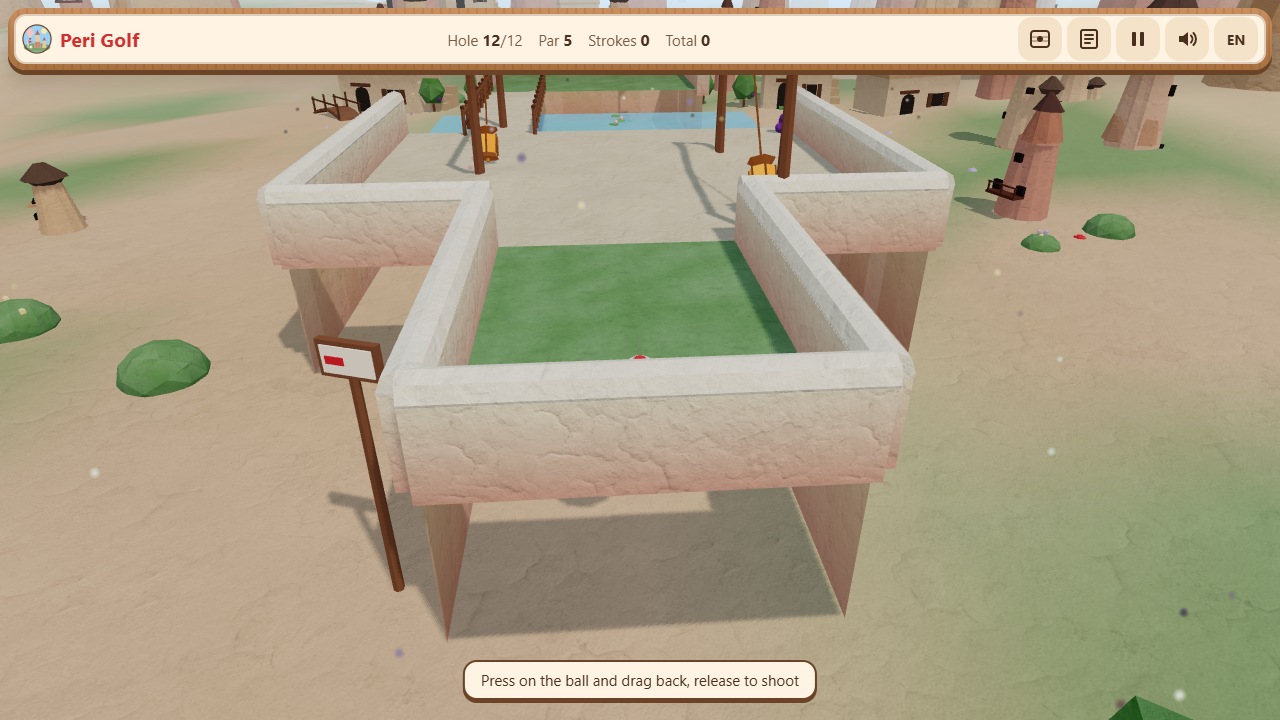
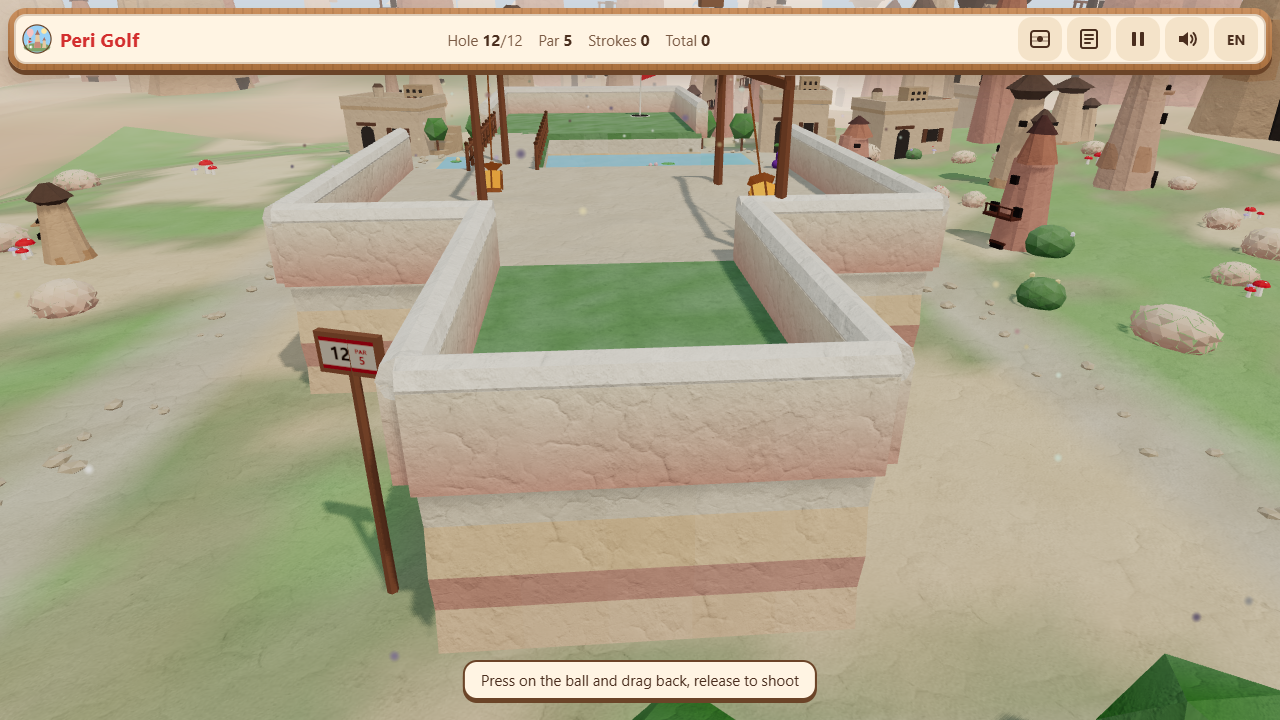
feat(redesign): diorama base, strata terrace, hero chimneys, numbered signpost
Fine 32 m ground base per hole with moss/grass patches, a pebble path and
instanced boulders, toadstool clusters and pebbles; the terrace sides are
layered tuff strata with a mossy lip and a contact shadow (faces now wind
outward); hero chimneys past the cup, warmer closer fog and a flatter tee
camera; the tee signpost carries the hole number and par on a canvas board.
The coarse terrain skips its centre so the ground is not drawn twice.

Claude-Session: https://claude.ai/code/session_014vMYwwQ3htV8WjCni8q7av

diff --git a/index.html b/index.html
@@ -800,18 +800,32 @@ function padTop(course, p, rnd) {
   return g.toNonIndexed();
 }
 // skirt from the pad edge down to the course base (the carved tuff terrace side)
+// Redesign: the terrace side is layered tuff strata (each band bulges out a little), a mossy lip on top and a dark
+// contact-shadow apron where the terrace meets the diorama ground. Faces wind outward so the near side is lit, not culled.
+const SKIRT_BANDS = [[0, 0x6F9460, 0.0], [0.07, 0xF6E8CE, 0.05], [0.24, 0xE8C9A0, 0.0], [0.42, 0xDDA894, 0.07], [0.58, 0xE4C4A0, 0.02], [0.76, 0xC98B7A, 0.09], [1, 0xB0776A, 0.04]];
 function padSkirt(course, p, rnd) {
-  const pos = [], col = [], base = course.base; const corners = [[-1, -1], [1, -1], [1, 1], [-1, 1]];
+  const pos = [], col = [], base = course.base, corners = [[-1, -1], [1, -1], [1, 1], [-1, 1]], gy = terrainY(p.x, p.z) + 0.015;
+  const dark = new THREE.Color(0x8E7458), ground = new THREE.Color(COL.tuff);
+  const V = (x, y, z, c, j) => { pos.push(x, y, z); col.push(c.r + j, c.g + j, c.b + j); };
   for (let k = 0; k < 4; k++) {
     const a = corners[k], b = corners[(k + 1) % 4];
     const ax = p.x + a[0] * p.w / 2, az = p.z + a[1] * p.d / 2, bx = p.x + b[0] * p.w / 2, bz = p.z + b[1] * p.d / 2;
-    const n = Math.max(1, Math.round(Math.hypot(bx - ax, bz - az) / 0.5));
+    const ex = bx - ax, ez = bz - az, L = Math.hypot(ex, ez), ox = ez / L, oz = -ex / L; // (ox, oz) points away from the pad
+    const n = Math.max(1, Math.round(L / 0.5));
     for (let i = 0; i < n; i++) {
-      const x0 = ax + (bx - ax) * i / n, z0 = az + (bz - az) * i / n, x1 = ax + (bx - ax) * (i + 1) / n, z1 = az + (bz - az) * (i + 1) / n;
-      const y0 = padH(p, x0, z0) + course.bumpH(x0, z0), y1 = padH(p, x1, z1) + course.bumpH(x1, z1);
-      pos.push(x0, y0, z0, x0, base, z0, x1, y1, z1, x1, y1, z1, x0, base, z0, x1, base, z1);
-      _c.set(COL.tuff); _c2.set(COL.rose); const j = (rnd() - 0.5) * 0.08; // tuff top, rose rock at the foot of the terrace
-      for (let q = 0; q < 6; q++) { const k = (q === 1 || q === 4 || q === 5) ? 1 : 0; col.push(_c.r + (_c2.r - _c.r) * k + j, _c.g + (_c2.g - _c.g) * k + j, _c.b + (_c2.b - _c.b) * k + j); }
+      const x0 = ax + ex * i / n, z0 = az + ez * i / n, x1 = ax + ex * (i + 1) / n, z1 = az + ez * (i + 1) / n;
+      const t0 = padH(p, x0, z0) + course.bumpH(x0, z0), t1 = padH(p, x1, z1) + course.bumpH(x1, z1);
+      for (let r = 0; r < SKIRT_BANDS.length - 1; r++) {
+        const [f0, cBand, b0] = SKIRT_BANDS[r], b1 = SKIRT_BANDS[r + 1][2], f1 = SKIRT_BANDS[r + 1][0], j = (rnd() - 0.5) * 0.07;
+        _c.set(cBand);
+        const A0 = [x0 + ox * b0, t0 - (t0 - base) * f0, z0 + oz * b0], A1 = [x1 + ox * b0, t1 - (t1 - base) * f0, z1 + oz * b0];
+        const B0 = [x0 + ox * b1, t0 - (t0 - base) * f1, z0 + oz * b1], B1 = [x1 + ox * b1, t1 - (t1 - base) * f1, z1 + oz * b1];
+        for (const v of [A0, A1, B0, A1, B1, B0]) V(v[0], v[1], v[2], _c, j);
+      }
+      // contact shadow: dark at the foot, fading to the ground colour 0.7 m out
+      const fb = SKIRT_BANDS[SKIRT_BANDS.length - 1][2], I0 = [x0 + ox * fb, gy, z0 + oz * fb], I1 = [x1 + ox * fb, gy, z1 + oz * fb];
+      const O0 = [x0 + ox * 0.7, gy, z0 + oz * 0.7], O1 = [x1 + ox * 0.7, gy, z1 + oz * 0.7];
+      V(...I0, dark, 0); V(...I1, dark, 0); V(...O0, ground, 0); V(...I1, dark, 0); V(...O1, ground, 0); V(...O0, ground, 0);
     }
   }
   const g = new THREE.BufferGeometry(); g.setAttribute('position', new THREE.Float32BufferAttribute(pos, 3)); g.setAttribute('color', new THREE.Float32BufferAttribute(col, 3));
@@ -898,12 +912,13 @@ function buildCourseGeometry(course) {
   // tee marker and a little wooden signpost beside the tee terrace
   const th = course.height(def.tee[0], def.tee[1]) || 0;
   flat.push(cyl(0.26, 0.26, 0.012, 12, def.tee[0], th + 0.004, def.tee[1], 0x98c26c));
+  let sign = null;
   { const tp = course.ground(def.tee[0], def.tee[1]); if (tp) {
-    // the board faces the tee camera (+z) and turns a little towards the course; cream face on both sides with a red flag stripe
-    const sx = tp.pad.x - tp.pad.w / 2 - 0.4, sz = def.tee[1] + 0.3, y0 = course.base + 0.2, y1 = th + 0.56, ry = -0.35, nx = Math.sin(ry), nz = Math.cos(ry);
+    // the board faces the tee camera (+z) and turns a little towards the course; its painted face (hole number) is a separate textured mesh
+    const sx = tp.pad.x - tp.pad.w / 2 - 0.4, sz = def.tee[1] + 0.3, y0 = terrainY(sx, sz) - 0.1, y1 = th + 0.56, ry = -0.35;
     flat.push(cyl(0.03, 0.04, y1 - y0, 6, sx, (y0 + y1) / 2, sz, COL.wood));
-    flat.push(box(0.4, 0.24, 0.05, sx, y1 - 0.1, sz, COL.wood, ry));
-    for (const s of [1, -1]) { flat.push(box(0.34, 0.18, 0.012, sx + nx * 0.03 * s, y1 - 0.1, sz + nz * 0.03 * s, COL.cream, ry)); flat.push(box(0.12, 0.05, 0.012, sx + nx * 0.037 * s - nz * 0.08, y1 - 0.1, sz + nz * 0.037 * s + nx * 0.08, COL.accent, ry)); }
+    flat.push(box(0.42, 0.26, 0.05, sx, y1 - 0.1, sz, COL.wood, ry));
+    sign = { x: sx, y: y1 - 0.1, z: sz, ry };
   } }
   // tunnels / cave houses over the course: rounded rock arches, rose at the foot and tuff above
   for (const tn of (def.tunnels || [])) {
@@ -934,7 +949,7 @@ function buildCourseGeometry(course) {
   // rock (tuff terraces, walls, stone pads), grass and sand are separate meshes so each can carry its own detail texture
   const rock = merged(list), g = merged(grass), s = merged(sand);
   if (rock) boxUV(rock, 2.2); if (g) boxUV(g, 1.1); if (s) { boxUV(s, 1.3); s.translate(0, 0.004, 0); } // sand sits 4 mm proud of the grass it overlaps (visual only)
-  return { rock, grass: g, sand: s, flat: merged(flat), water: water.length ? merged(water) : null };
+  return { rock, grass: g, sand: s, flat: merged(flat), water: water.length ? merged(water) : null, sign };
 }
 
 // Scenery around one hole: fairy chimneys, cave houses, vines, pottery, roosts.
@@ -969,54 +984,56 @@ function houseGeo(x, z, rnd, yBase, ry, pl) {
 function buildScenery(course) {
   const rnd = mulberry(500 + course.index * 13), def = course.def, deco = def.deco || {}, bb = course.bbox, list = [], pl = { chimneys: [], houses: [] };
   const inside = (x, z, m) => x > bb.x0 - m && x < bb.x1 + m && z > bb.z0 - m && z < bb.z1 + m;
-  const groundY = course.base + 0.2;
+  const gY = (x, z) => terrainY(x, z) + 0.01; // props stand on the diorama ground, not on the course base
   let placed = 0, tries = 0;
   while (placed < (deco.chimneys || 10) && tries++ < 400) {
     const x = bb.cx + (rnd() - 0.5) * (bb.x1 - bb.x0 + 20), z = bb.cz + (rnd() - 0.5) * (bb.z1 - bb.z0 + 20);
-    if (inside(x, z, 2.6)) continue;
+    if (inside(x, z, 2.6) || pathDist(course, x, z) < 1.0) continue;
     const far = !inside(x, z, 6);
-    list.push(...chimneyGeo(x, z, far ? 0.9 + rnd() * 0.9 : 0.45 + rnd() * 0.5, rnd, groundY - 0.3, pl)); placed++;
+    list.push(...chimneyGeo(x, z, far ? 0.9 + rnd() * 0.9 : 0.45 + rnd() * 0.5, rnd, gY(x, z) - 0.3, pl)); placed++;
   }
   placed = 0; tries = 0;
   while (placed < (deco.houses || 1) && tries++ < 200) {
     const x = bb.cx + (rnd() - 0.5) * (bb.x1 - bb.x0 + 12), z = bb.cz + (rnd() - 0.5) * (bb.z1 - bb.z0 + 12);
-    if (inside(x, z, 2.2)) continue;
-    list.push(...houseGeo(x, z, rnd, groundY - 0.2, (rnd() - 0.5) * 0.8, pl)); placed++;
+    if (inside(x, z, 2.2) || pathDist(course, x, z) < 1.4) continue;
+    list.push(...houseGeo(x, z, rnd, gY(x, z) - 0.2, (rnd() - 0.5) * 0.8, pl)); placed++;
   }
-  for (const l of (deco.landmarks || [])) list.push(...chimneyGeo(l.x, l.z, l.s, rnd, groundY - 0.3, pl));
+  for (const l of (deco.landmarks || [])) list.push(...chimneyGeo(l.x, l.z, l.s, rnd, gY(l.x, l.z) - 0.3, pl));
+  // hero chimneys at hole scale just past the cup, inside the tee camera's view, so the diorama has a near skyline
+  for (const [x, z, s] of [[def.cup[0] - 3.4, bb.z0 - 3.6, 1.35], [def.cup[0] + 3.0, bb.z0 - 5.4, 1.05], [bb.x1 + 3.4, bb.z0 + 1.6, 0.8]]) {
+    if (!inside(x, z, 2.6)) list.push(...chimneyGeo(x, z, s, rnd, gY(x, z) - 0.3, pl));
+  }
   if (deco.vines) { // rows of vine posts and bushes along the course
     for (const side of [-1, 1]) for (let i = 0; i < 9; i++) {
       const x = bb.x0 - 1.2 + (bb.x1 - bb.x0 + 2.4) * i / 8, z = side < 0 ? bb.z0 - 1.6 - (i % 2) * 0.5 : bb.z1 + 1.6 + (i % 2) * 0.5;
       if (inside(x, z, 0.9)) continue;
-      list.push(cyl(0.03, 0.04, 0.9, 5, x, groundY + 0.45, z, COL.wood));
-      const g = new THREE.IcosahedronGeometry(0.32 + rnd() * 0.15, 0); g.translate(x, groundY + 0.75, z); list.push(colorize(g, COL.vine, 0.1, rnd));
-      if (rnd() < 0.5) list.push(sph(0.07, x + 0.2, groundY + 0.55, z + 0.15, 0x6a3b8c, 5));
+      const g0 = gY(x, z);
+      list.push(cyl(0.03, 0.04, 0.9, 5, x, g0 + 0.45, z, COL.wood));
+      const g = new THREE.IcosahedronGeometry(0.32 + rnd() * 0.15, 0); g.translate(x, g0 + 0.75, z); list.push(colorize(g, COL.vine, 0.1, rnd));
+      if (rnd() < 0.5) list.push(sph(0.07, x + 0.2, g0 + 0.55, z + 0.15, 0x6a3b8c, 5));
     }
   }
-  // diorama props: round bushes with blossoms, toadstools, flower patches and one tiny footbridge over a puddle
+  // diorama props: round bushes with blossoms, flower patches and one tiny footbridge over a puddle
+  // (toadstool clusters, boulders and the pebble path are instanced in buildDioramaProps)
   for (let i = 0, nb = 12 + Math.floor(rnd() * 6); i < nb; i++) {
-    const x = bb.cx + (rnd() - 0.5) * (bb.x1 - bb.x0 + 14), z = bb.cz + (rnd() - 0.5) * (bb.z1 - bb.z0 + 14); if (inside(x, z, 1.5)) continue;
-    const r = 0.22 + rnd() * 0.24; const g = new THREE.IcosahedronGeometry(r, 1); g.scale(1, 0.8, 1); g.translate(x, groundY + r * 0.55, z);
-    list.push(colorizeY(g, 0x4d7d44, COL.moss, groundY, groundY + r * 1.3, 0.08, rnd));
-    if (rnd() < 0.6) for (let k = 0; k < 3; k++) list.push(sph(0.045, x + (rnd() - 0.5) * r * 1.4, groundY + r * 0.9 + rnd() * r * 0.4, z + (rnd() - 0.5) * r * 1.4, [COL.blush, COL.lemon, 0xffffff, COL.lilac][Math.floor(rnd() * 4)], 4));
-  }
-  for (let i = 0, nm = 5 + Math.floor(rnd() * 4); i < nm; i++) {
-    const x = bb.cx + (rnd() - 0.5) * (bb.x1 - bb.x0 + 10), z = bb.cz + (rnd() - 0.5) * (bb.z1 - bb.z0 + 10); if (inside(x, z, 1.2)) continue;
-    const s = 0.7 + rnd() * 0.7; list.push(cyl(0.035 * s, 0.05 * s, 0.18 * s, 6, x, groundY + 0.09 * s, z, COL.cream, 0.04));
-    const cap = new THREE.SphereGeometry(0.11 * s, 8, 5, 0, Math.PI * 2, 0, Math.PI / 2); cap.scale(1, 0.7, 1); cap.translate(x, groundY + 0.17 * s, z); list.push(colorize(cap, rnd() < 0.6 ? COL.accent : COL.lilac, 0.05, rnd));
-    for (let k = 0; k < 3; k++) { const a = rnd() * 6.28, rr = 0.05 * s; list.push(sph(0.022 * s, x + Math.cos(a) * rr, groundY + 0.22 * s, z + Math.sin(a) * rr, 0xffffff, 4)); }
+    const x = bb.cx + (rnd() - 0.5) * (bb.x1 - bb.x0 + 14), z = bb.cz + (rnd() - 0.5) * (bb.z1 - bb.z0 + 14); if (inside(x, z, 1.5) || pathDist(course, x, z) < 0.9) continue;
+    const g0 = gY(x, z), r = 0.22 + rnd() * 0.24; const g = new THREE.IcosahedronGeometry(r, 1); g.scale(1, 0.8, 1); g.translate(x, g0 + r * 0.55, z);
+    list.push(colorizeY(g, 0x4d7d44, COL.moss, g0, g0 + r * 1.3, 0.08, rnd));
+    if (rnd() < 0.6) for (let k = 0; k < 3; k++) list.push(sph(0.045, x + (rnd() - 0.5) * r * 1.4, g0 + r * 0.9 + rnd() * r * 0.4, z + (rnd() - 0.5) * r * 1.4, [COL.blush, COL.lemon, 0xffffff, COL.lilac][Math.floor(rnd() * 4)], 4));
   }
   for (let i = 0; i < 7; i++) {
-    const cx = bb.cx + (rnd() - 0.5) * (bb.x1 - bb.x0 + 12), cz = bb.cz + (rnd() - 0.5) * (bb.z1 - bb.z0 + 12); if (inside(cx, cz, 1.0)) continue;
-    for (let k = 0; k < 6; k++) { const x = cx + (rnd() - 0.5) * 0.9, z = cz + (rnd() - 0.5) * 0.9; list.push(cyl(0.008, 0.01, 0.12, 4, x, groundY + 0.06, z, COL.vine), sph(0.038, x, groundY + 0.13, z, [COL.blush, COL.lemon, COL.lilac, 0xffffff, COL.accent][Math.floor(rnd() * 5)], 4)); }
+    const cx = bb.cx + (rnd() - 0.5) * (bb.x1 - bb.x0 + 12), cz = bb.cz + (rnd() - 0.5) * (bb.z1 - bb.z0 + 12); if (inside(cx, cz, 1.0) || pathDist(course, cx, cz) < 0.9) continue;
+    const g0 = gY(cx, cz);
+    for (let k = 0; k < 6; k++) { const x = cx + (rnd() - 0.5) * 0.9, z = cz + (rnd() - 0.5) * 0.9; list.push(cyl(0.008, 0.01, 0.12, 4, x, g0 + 0.06, z, COL.vine), sph(0.038, x, g0 + 0.13, z, [COL.blush, COL.lemon, COL.lilac, 0xffffff, COL.accent][Math.floor(rnd() * 5)], 4)); }
   }
-  { let tries = 0; while (tries++ < 40) { const x = bb.cx + (rnd() - 0.5) * (bb.x1 - bb.x0 + 11), z = bb.cz + (rnd() - 0.5) * (bb.z1 - bb.z0 + 11); if (inside(x, z, 2.4) || !inside(x, z, 6)) continue; list.push(...bridgeGeo(x, groundY, z, rnd() * Math.PI, rnd)); break; } }
+  { let tries = 0; while (tries++ < 40) { const x = bb.cx + (rnd() - 0.5) * (bb.x1 - bb.x0 + 11), z = bb.cz + (rnd() - 0.5) * (bb.z1 - bb.z0 + 11); if (inside(x, z, 2.4) || !inside(x, z, 6) || pathDist(course, x, z) < 1.4) continue; list.push(...bridgeGeo(x, gY(x, z), z, rnd() * Math.PI, rnd)); break; } }
   if (deco.pots) { // shelves with pottery around the workshop
+    const g0 = gY(bb.x1 + 1.3, bb.z0 + 2.8);
     for (let i = 0; i < 6; i++) {
       const x = bb.x1 + 1.0 + (i % 2) * 0.6, z = bb.z0 + 1 + i * 0.7;
-      list.push(sph(0.16, x, groundY + 0.18, z, [0xd07a5c, COL.blush, COL.rose][i % 3], 7), cyl(0.07, 0.09, 0.14, 7, x, groundY + 0.38, z, 0xd07a5c));
+      list.push(sph(0.16, x, g0 + 0.18, z, [0xd07a5c, COL.blush, COL.rose][i % 3], 7), cyl(0.07, 0.09, 0.14, 7, x, g0 + 0.38, z, 0xd07a5c));
     }
-    list.push(box(1.6, 0.1, 4.6, bb.x1 + 1.3, groundY + 0.02, bb.z0 + 2.8, COL.wood));
+    list.push(box(1.6, 0.1, 4.6, bb.x1 + 1.3, g0 + 0.02, bb.z0 + 2.8, COL.wood));
   }
   if (def.pigeons) { // pigeon loft: a carved cliff with holes
     const [x, z] = def.pigeons; const gh = course.height(x, z) ?? (course.base + 0.2);
@@ -1043,6 +1060,102 @@ function buildGrape() {
   const leaf = new THREE.BoxGeometry(0.22, 0.02, 0.16); leaf.translate(0.06, 0.3, 0); list.push(colorize(leaf, COL.vine));
   return merged(list);
 }
+// Diorama ground around the course (redesign): a fine 32x32 m base on the flat basin with moss and grass patches,
+// a pebble path that rings the course and runs back to the tee camera, plus instanced boulders, toadstool clusters and pebbles.
+const BASIN_Y = -1.35;
+function terrainY(x, z) { // analytic terrain height (no jitter): the basin is flat, hills start 11 m out
+  const d = Math.hypot(x, z), hill = Math.sin(x * 0.11) * Math.cos(z * 0.09) * 1.6 + Math.sin(x * 0.31 + 1) * Math.sin(z * 0.27) * 0.6;
+  return BASIN_Y + hill * THREE.MathUtils.smoothstep(d, 11, 24) + (d > 55 ? (d - 55) * 0.05 : 0);
+}
+function vnoise(x, z, seed) { // smooth value noise in [0,1]
+  const xi = Math.floor(x), zi = Math.floor(z), fx = x - xi, fz = z - zi, sx = fx * fx * (3 - 2 * fx), sz = fz * fz * (3 - 2 * fz);
+  const h = (i, j) => { const s = Math.sin(i * 127.1 + j * 311.7 + seed * 0.37) * 43758.5453; return s - Math.floor(s); };
+  return (h(xi, zi) * (1 - sx) + h(xi + 1, zi) * sx) * (1 - sz) + (h(xi, zi + 1) * (1 - sx) + h(xi + 1, zi + 1) * sx) * sz;
+}
+// distance to the pebble path: a rounded ring 1.7 m outside the course plus a spur towards the tee camera
+function pathDist(course, x, z) {
+  const bb = course.bbox, m = 1.7, r = 1.3, hx = (bb.x1 - bb.x0) / 2 + m - r, hz = (bb.z1 - bb.z0) / 2 + m - r;
+  const qx = Math.abs(x - bb.cx) - hx, qz = Math.abs(z - bb.cz) - hz;
+  const ring = Math.hypot(Math.max(qx, 0), Math.max(qz, 0)) + Math.min(Math.max(qx, qz), 0) - r;
+  const sx = course.def.tee[0] + 2.1, z0 = bb.z1 + m, spur = Math.hypot(x - sx, z - clamp(z, z0, z0 + 7));
+  return Math.min(Math.abs(ring), spur);
+}
+function buildBaseGround(course) {
+  const seed = 7 + course.index * 3, size = 32, n = 64, pos = [], col = [], idx = [];
+  const tuff = new THREE.Color(COL.tuff), sand = new THREE.Color(0xF0DDB2), moss = new THREE.Color(COL.moss), grass = new THREE.Color(0x9DBE78), dark = new THREE.Color(0x628C55), stone = new THREE.Color(0xD9CBB0), tmp = new THREE.Color();
+  const rnd = mulberry(seed);
+  for (let j = 0; j <= n; j++) for (let i = 0; i <= n; i++) {
+    const x = -size / 2 + size * i / n, z = -size / 2 + size * j / n;
+    pos.push(x, terrainY(x, z) + 0.05, z);
+    const f = vnoise(x * 0.33, z * 0.33, seed) * 0.6 + vnoise(x * 0.9 + 7, z * 0.9, seed) * 0.3 + vnoise(x * 2.3, z * 2.3 + 3, seed) * 0.1;
+    tmp.lerpColors(tuff, sand, vnoise(x * 0.12, z * 0.12 + 50, seed));
+    const mossK = THREE.MathUtils.smoothstep(f, 0.46, 0.64), edge = THREE.MathUtils.smoothstep(f, 0.40, 0.50) * (1 - mossK); // dark moss rim round each patch
+    tmp.lerp(f > 0.58 ? grass : moss, mossK).lerp(dark, edge * 0.55);
+    const pd = pathDist(course, x, z), pathK = 1 - THREE.MathUtils.smoothstep(pd, 0.4, 0.85);
+    tmp.lerp(stone, pathK * 0.9);
+    const jit = (rnd() - 0.5) * (pathK > 0.5 ? 0.09 : 0.04);
+    col.push(tmp.r + jit, tmp.g + jit, tmp.b + jit);
+  }
+  for (let j = 0; j < n; j++) for (let i = 0; i < n; i++) { const a = j * (n + 1) + i, b = a + 1, c = a + n + 1, d = c + 1; idx.push(a, c, b, b, c, d); }
+  const g = new THREE.BufferGeometry(); g.setAttribute('position', new THREE.Float32BufferAttribute(pos, 3)); g.setAttribute('color', new THREE.Float32BufferAttribute(col, 3)); g.setIndex(idx); g.computeVertexNormals();
+  return boxUV(g.toNonIndexed(), 4.5);
+}
+// shared instanced prop geometries: a toadstool cluster, a tuff boulder and a pebble
+let PROP_GEO = null;
+function propGeos() { // built on first use (colorizeY needs helpers declared later in the module)
+  if (PROP_GEO) return PROP_GEO;
+  const rnd = mulberry(77), stool = [];
+  for (const [dx, dz, s, c] of [[0, 0, 1, COL.accent], [0.19, 0.08, 0.66, COL.accent], [-0.14, 0.15, 0.5, COL.lilac]]) {
+    stool.push(cyl(0.035 * s, 0.05 * s, 0.18 * s, 6, dx, 0.09 * s, dz, COL.cream, 0.04));
+    const cap = new THREE.SphereGeometry(0.12 * s, 8, 5, 0, Math.PI * 2, 0, Math.PI / 2); cap.scale(1, 0.7, 1); cap.translate(dx, 0.17 * s, dz); stool.push(colorize(cap, c, 0.05, rnd));
+    for (let k = 0; k < 3; k++) { const a = rnd() * 6.28, rr = 0.055 * s; stool.push(sph(0.024 * s, dx + Math.cos(a) * rr, 0.23 * s, dz + Math.sin(a) * rr, 0xffffff, 4)); }
+  }
+  const boulder = new THREE.IcosahedronGeometry(0.5, 2); { const p = boulder.attributes.position; for (let i = 0; i < p.count; i++) p.setXYZ(i, p.getX(i) * (0.9 + rnd() * 0.25), p.getY(i) * 0.75, p.getZ(i) * (0.9 + rnd() * 0.25)); }
+  boulder.computeVertexNormals(); colorizeY(boulder, COL.rose, 0xEFD7B8, -0.4, 0.35, 0.06, rnd);
+  const pebble = new THREE.IcosahedronGeometry(0.06, 0); pebble.scale(1.3, 0.55, 1); colorize(pebble, 0xC9B79A, 0.12, rnd);
+  const out = { stool: merged(stool), boulder, pebble };
+  for (const g of Object.values(out)) g.userData.shared = true;
+  return (PROP_GEO = out);
+}
+function buildDioramaProps(course) {
+  const rnd = mulberry(900 + course.index * 7), bb = course.bbox, meshes = [], PG = propGeos();
+  const inside = (x, z, m) => x > bb.x0 - m && x < bb.x1 + m && z > bb.z0 - m && z < bb.z1 + m;
+  const sample = (n, keep, place) => { // rejection-sample positions on the 32 m base, then fill an InstancedMesh
+    const pts = []; let tries = 0;
+    while (pts.length < n && tries++ < n * 60) { const x = (rnd() - 0.5) * 30, z = (rnd() - 0.5) * 30; if (keep(x, z, pathDist(course, x, z))) pts.push([x, z]); }
+    return pts;
+  };
+  const fill = (geo, pts, place, shadow) => {
+    const m = mesh(geo, 'flat', THREE.InstancedMesh, pts.length); m.castShadow = shadow;
+    pts.forEach((p, i) => { place(p[0], p[1]); m.setMatrixAt(i, _m.compose(_p, _q, _s)); });
+    m.instanceMatrix.needsUpdate = true; meshes.push(m);
+  };
+  fill(PG.pebble, sample(170, (x, z, pd) => pd < 0.42 && !inside(x, z, 0.9)), (x, z) => {
+    const s = 0.55 + rnd() * 1.1; _p.set(x, terrainY(x, z) + 0.05 + 0.02 * s, z); _q.setFromEuler(_e.set(0, rnd() * 6.28, 0)); _s.set(s, s, s);
+  }, false);
+  fill(PG.boulder, sample(26, (x, z, pd) => pd > 0.9 && !inside(x, z, 1.4) && Math.hypot(x, z) < 15), (x, z) => {
+    const s = 0.28 + rnd() * 0.55; _p.set(x, terrainY(x, z) + 0.05 + s * 0.2, z); _q.setFromEuler(_e.set(0, rnd() * 6.28, 0)); _s.set(s * (0.8 + rnd() * 0.5), s, s * (0.8 + rnd() * 0.5));
+  }, true);
+  fill(PG.stool, sample(20, (x, z, pd) => pd > 0.8 && !inside(x, z, 1.1) && Math.hypot(x, z) < 14), (x, z) => {
+    const s = 0.8 + rnd() * 0.6; _p.set(x, terrainY(x, z) + 0.055, z); _q.setFromEuler(_e.set(0, rnd() * 6.28, 0)); _s.set(s, s, s);
+  }, true);
+  return meshes;
+}
+// painted face of the tee signpost: hole number and par on a cream board
+function signTexture(n, par) {
+  const cv = document.createElement('canvas'); cv.width = 256; cv.height = 144; const x = cv.getContext('2d');
+  x.fillStyle = '#FFF4E3'; x.fillRect(0, 0, 256, 144); x.fillStyle = '#E53935'; x.fillRect(0, 0, 256, 18); x.fillRect(0, 126, 256, 18);
+  x.fillStyle = '#4A2E1E'; x.textAlign = 'center'; x.textBaseline = 'middle';
+  x.font = '700 84px Fredoka, "Segoe UI", system-ui, sans-serif'; x.fillText(String(n), 92, 72);
+  x.fillStyle = '#E53935'; x.font = '700 28px Fredoka, "Segoe UI", system-ui, sans-serif'; x.fillText('PAR', 192, 50);
+  x.font = '700 50px Fredoka, "Segoe UI", system-ui, sans-serif'; x.fillText(String(par), 192, 92);
+  const tx = new THREE.CanvasTexture(cv); tx.colorSpace = THREE.SRGBColorSpace; tx.anisotropy = 4; return tx;
+}
+function buildSign(s, hole, par) {
+  const faces = [];
+  for (const side of [0, Math.PI]) { const g = new THREE.PlaneGeometry(0.36, 0.2); g.rotateY(s.ry + side); const nx = Math.sin(s.ry + side), nz = Math.cos(s.ry + side); g.translate(s.x + nx * 0.028, s.y, s.z + nz * 0.028); faces.push(g); }
+  const m = new THREE.Mesh(mergeGeometries(faces, false), new THREE.MeshLambertMaterial({ map: signTexture(hole, par) })); m.castShadow = true; return m;
+}
 // big low terrain with a basin where the course sits, plus far chimneys
 function buildTerrain() {
   const rnd = mulberry(99), size = 160, n = 64, pos = [], col = [], idx = [];
@@ -1050,9 +1163,7 @@ function buildTerrain() {
   for (let j = 0; j <= n; j++) for (let i = 0; i <= n; i++) {
     const x = -size / 2 + size * i / n, z = -size / 2 + size * j / n, d = Math.hypot(x, z);
     const v = Math.sin(x * 0.07 + 1.3) * Math.cos(z * 0.05 - 0.4) * 0.5 + Math.sin(x * 0.19 - z * 0.13) * 0.5; // large-scale patches
-    const hill = Math.sin(x * 0.11) * Math.cos(z * 0.09) * 1.6 + Math.sin(x * 0.31 + 1) * Math.sin(z * 0.27) * 0.6 + (rnd() - 0.5) * 0.3;
-    const k = THREE.MathUtils.smoothstep(d, 11, 24);
-    const y = -1.35 + hill * k + (d > 55 ? (d - 55) * 0.05 : 0);
+    const y = terrainY(x, z) + (rnd() - 0.5) * 0.3 * THREE.MathUtils.smoothstep(d, 24, 30); // jitter only beyond the fine diorama base
     pos.push(x, y, z);
     // moss meadows (a finer noise so patches also reach the flat basin round the course), rose rock in the hollows and on the hill tops
     const v2 = Math.sin(x * 0.43 + z * 0.21 + 0.8) * Math.cos(z * 0.37 - x * 0.12) + v * 0.6;
@@ -1060,7 +1171,11 @@ function buildTerrain() {
     tmp.copy(tuff).lerp(moss, mossK).lerp(rose, roseK);
     col.push(tmp.r + j2, tmp.g + j2, tmp.b + j2);
   }
-  for (let j = 0; j < n; j++) for (let i = 0; i < n; i++) { const a = j * (n + 1) + i, b = a + 1, c = a + n + 1, d = c + 1; idx.push(a, c, b, b, c, d); }
+  for (let j = 0; j < n; j++) for (let i = 0; i < n; i++) {
+    const cx = -size / 2 + size * (i + 0.5) / n, cz = -size / 2 + size * (j + 0.5) / n;
+    if (Math.abs(cx) < 15 && Math.abs(cz) < 15) continue; // the fine diorama base covers the centre: no double ground there
+    const a = j * (n + 1) + i, b = a + 1, c = a + n + 1, d = c + 1; idx.push(a, c, b, b, c, d);
+  }
   const g = new THREE.BufferGeometry(); g.setAttribute('position', new THREE.Float32BufferAttribute(pos, 3)); g.setAttribute('color', new THREE.Float32BufferAttribute(col, 3)); g.setIndex(idx); g.computeVertexNormals();
   g.setAttribute('uv', new THREE.BufferAttribute(new Float32Array(pos.length / 3 * 2), 2));
   return g.toNonIndexed();
@@ -1068,9 +1183,7 @@ function buildTerrain() {
 function buildFarChimneys() {
   const rnd = mulberry(1234), list = [], pl = { chimneys: [], houses: [] };
   for (let i = 0; i < 140; i++) {
-    const a = rnd() * Math.PI * 2, d = 20 + rnd() * 48, x = Math.cos(a) * d, z = Math.sin(a) * d;
-    const hill = Math.sin(x * 0.11) * Math.cos(z * 0.09) * 1.6 + Math.sin(x * 0.31 + 1) * Math.sin(z * 0.27) * 0.6;
-    const y = -1.35 + hill * THREE.MathUtils.smoothstep(d, 11, 24) + (d > 55 ? (d - 55) * 0.05 : 0);
+    const a = rnd() * Math.PI * 2, d = 20 + rnd() * 48, x = Math.cos(a) * d, z = Math.sin(a) * d, y = terrainY(x, z);
     list.push(...chimneyGeo(x, z, 1.2 + rnd() * 2.2, rnd, y - 0.5, pl));
     if (rnd() < 0.25) list.push(...houseGeo(x + 2, z + 1, rnd, y - 0.3, rnd(), pl));
   }
@@ -1085,7 +1198,7 @@ function buildSky() {
 function tintSky(geo, progress, az = 0, el = 0.2) {
   const pos = geo.attributes.position, col = geo.attributes.color;
   // pastel diorama sky: peach dawn -> clear toy-sky blue; the fog colour sits between horizon and mid so the far field melts into the sky
-  const horizon = new THREE.Color().lerpColors(new THREE.Color(0xffe0c4), new THREE.Color(0xeef7fd), progress);
+  const horizon = new THREE.Color().lerpColors(new THREE.Color(0xffe0c4), new THREE.Color(0xf9e6d2), progress);
   const mid = new THREE.Color().lerpColors(new THREE.Color(0xc4def2), new THREE.Color(0x9ad1f5), progress);
   const zenith = new THREE.Color().lerpColors(new THREE.Color(0x86b9e8), new THREE.Color(0x6aaae6), progress);
   const tmp = new THREE.Color(), sx = Math.sin(az) * Math.cos(el), sy = Math.sin(el), sz = Math.cos(az) * Math.cos(el);
@@ -1095,7 +1208,7 @@ function tintSky(geo, progress, az = 0, el = 0.2) {
     const d = Math.max(0, (pos.getX(i) * sx + pos.getY(i) * sy + pos.getZ(i) * sz) / 90), glow = Math.pow(d, 7) * (0.3 - 0.16 * progress);
     col.setXYZ(i, c.r + glow * 0.4, c.g + glow * 0.26, c.b + glow * 0.08);
   }
-  col.needsUpdate = true; return horizon.lerp(mid, 0.3);
+  col.needsUpdate = true; return horizon.lerp(mid, 0.18); // warm haze: the fog sits close to the peach horizon
 }
 function softSprite() {
   const cv = document.createElement('canvas'); cv.width = cv.height = 64; const x = cv.getContext('2d');
@@ -1497,7 +1610,7 @@ const sky = new THREE.Mesh(buildSky(), new THREE.MeshBasicMaterial({ vertexColor
 const terrain = mesh(boxUV(buildTerrain(), 4.5), 'ground'); terrain.receiveShadow = true; scene.add(terrain);
 const far = buildFarChimneys();
 const farMesh = mesh(far.geo, 'rock'); scene.add(farMesh);
-scene.fog = new THREE.Fog(0xd6e9f7, 16, 66); // tilt-shift depth fog: the course stays crisp, the far field melts into the sky
+scene.fog = new THREE.Fog(0xf3e2d2, 13, 56); // tilt-shift depth fog: the course and hero chimneys stay crisp, the far field melts into the warm haze
 const envOn = () => settings.quality === 'high' && !!ASSETS.env;
 
 let PMAX = 260;
@@ -1750,7 +1863,7 @@ function buildHoleScenery(course) {
   fillInstances();
 }
 function clearHole() {
-  if (holeGroup) { disposeTree(holeGroup); scene.remove(holeGroup); }
+  if (holeGroup) { const s = holeGroup.userData.sign; if (s) { s.material.map.dispose(); s.material.dispose(); } disposeTree(holeGroup); scene.remove(holeGroup); }
   holeGroup = null; sceneryGroup = null; holeScenery = null; obstacleMeshes = []; ghostLine = null; waterMesh = null;
 }
 view.onHole = function () {
@@ -1760,6 +1873,9 @@ view.onHole = function () {
   const geo = buildCourseGeometry(course);
   for (const k of ['rock', 'grass', 'sand', 'flat']) if (geo[k]) { const m = mesh(geo[k], k); m.receiveShadow = true; m.castShadow = true; holeGroup.add(m); }
   if (geo.water) { waterMesh = mesh(geo.water, 'water'); waterMesh.receiveShadow = true; holeGroup.add(waterMesh); }
+  { const base = mesh(buildBaseGround(course), 'ground'); base.receiveShadow = true; holeGroup.add(base); }
+  for (const m of buildDioramaProps(course)) holeGroup.add(m);
+  if (geo.sign) { const s = buildSign(geo.sign, i + 1, def.par); holeGroup.userData.sign = s; holeGroup.add(s); }
   buildHoleScenery(course);
   flagMesh = mesh(buildFlag(course), 'flat'); flagMesh.position.set(def.cup[0], course.height(def.cup[0], def.cup[1]) || 0, def.cup[1]); flagMesh.castShadow = true; holeGroup.add(flagMesh);
   grapeMesh = mesh(grapeGeo, 'smooth'); grapeMesh.position.set(def.grape[0], (course.height(def.grape[0], def.grape[1]) ?? 0) + 0.05, def.grape[1]); grapeMesh.castShadow = true; holeGroup.add(grapeMesh);
@@ -1773,7 +1889,7 @@ view.onHole = function () {
   }
   setPigeons(course); setMotes(course);
   applySun();
-  cam.yaw = game.aim.angle; cam.cyaw = cam.yaw; cam.pitch = cam.cpitch = 0.52; cam.dist = cam.cdist = 4.8; game.top = false; ui.topBtn();
+  cam.yaw = game.aim.angle; cam.cyaw = cam.yaw; cam.pitch = cam.cpitch = 0.45; cam.dist = cam.cdist = 4.8; game.top = false; ui.topBtn(); // a flatter tee camera shows the hero chimneys and the sky
   ballMesh.visible = true; ballMesh.position.set(game.ball.x, game.ball.y, game.ball.z);
 };
 
@@ -1873,7 +1989,7 @@ view.fx = fx;
 // ---------------------------------------------------------------------------
 // Camera
 // ---------------------------------------------------------------------------
-const cam = { yaw: 0, pitch: 0.52, dist: 4.8, cyaw: 0, cpitch: 0.52, cdist: 4.8, tx: 0, ty: 0, tz: 0, init: false };
+const cam = { yaw: 0, pitch: 0.45, dist: 4.8, cyaw: 0, cpitch: 0.45, cdist: 4.8, tx: 0, ty: 0, tz: 0, init: false };
 const easeInOut = (u) => u < 0.5 ? 2 * u * u : 1 - Math.pow(-2 * u + 2, 2) / 2;
 const _look = new THREE.Vector3(), _a = new THREE.Vector3(), _b = new THREE.Vector3();
 function cameraUpdate(dt) {

diff --git a/README.md b/README.md
@@ -138,10 +138,14 @@ What changed (the physics, controls, scoring, 12 holes, bot, saves and both lang
 
 - **Palette and lighting:** pastel vertex colours, warm sun plus a sky-tinted hemisphere, nearer fog so the far chimneys fade
   like a model landscape, a lighter procedural sky with clouds.
-- **Environment:** mossier terrain with meadows in the basin, rounded rock arches with mossy crowns over the tunnels and cave
-  houses, tiny wooden bridges with railings over the water, drifting fairy-light motes.
-- **Objects:** toy-like props (round bushes with blossoms, toadstools, flower patches, a signpost beside every tee),
-  pop-in animation when a hole loads, a sparkle trail behind the ball and pastel splash and cup FX.
+- **Environment:** a diorama base around every hole (moss and grass patches with dark rims, a pebble path that rings the
+  course and runs back to the tee, instanced tuff boulders, toadstool clusters and pebbles), the course terrace as layered
+  tuff strata with a mossy lip and a contact shadow on the ground, hero fairy chimneys at hole scale past the cup, rounded
+  rock arches with mossy crowns over the tunnels and cave houses, tiny wooden bridges with railings over the water,
+  drifting fairy-light motes, a flatter tee camera so the chimneys and the pastel sky show behind the course.
+- **Objects:** toy-like props (round bushes with blossoms, flower patches, a signpost beside every tee that shows the hole
+  number and par on a painted board), pop-in animation when a hole loads, a sparkle trail behind the ball and pastel
+  splash and cup FX.
 - **UI skin:** wooden signpost boards with a cream face for every panel (title, hole card, pause, settings, hole result,
   scorecard, course complete), pastel toy buttons with a 3D edge, Fredoka as the self-hosted UI face
   (`assets/fonts/`), 44 px touch targets, visible focus rings, phone portrait and landscape layouts.
@@ -151,11 +155,11 @@ Measured on the Intel UHD 620 (headless Chrome, 1280x720, High tier, with assets
 | | v1 (2026-10) | Redesign (2026-11) |
 |---|---|---|
 | title fps / draw calls | 60 / 16 | 60 / 18 |
-| hole 4 fps / draw calls | 56 / 19 | 60 / 21 |
-| hole 12 fps / draw calls | 60 / 20 | 60 / 22 |
-| hole 7 and hole 9 | - | 60 / 22 and 60 / 20 |
-| phone 500x900 (Low tier) | - | 60 / 21 |
-| `?low` on desktop, `?noassets` | - | 60 / 20, 60 / 16 |
+| hole 4 fps / draw calls | 56 / 19 | 58-60 / 26 |
+| hole 12 fps / draw calls | 60 / 20 | 60 / 27 |
+| hole 7 and hole 9 | - | 60 / 27 and 60 / 25 |
+| phone 500x900 (Low tier) | - | 60 / 26 |
+| `?low` on desktop, `?noassets` | - | 60 / 25, 60 / 18 |
 | `?auto` bot, 12 holes | 18 strokes, 0 errors | 18 strokes, 23 stars, 0 errors (with assets and `?noassets`) |
 
 ## Balance
